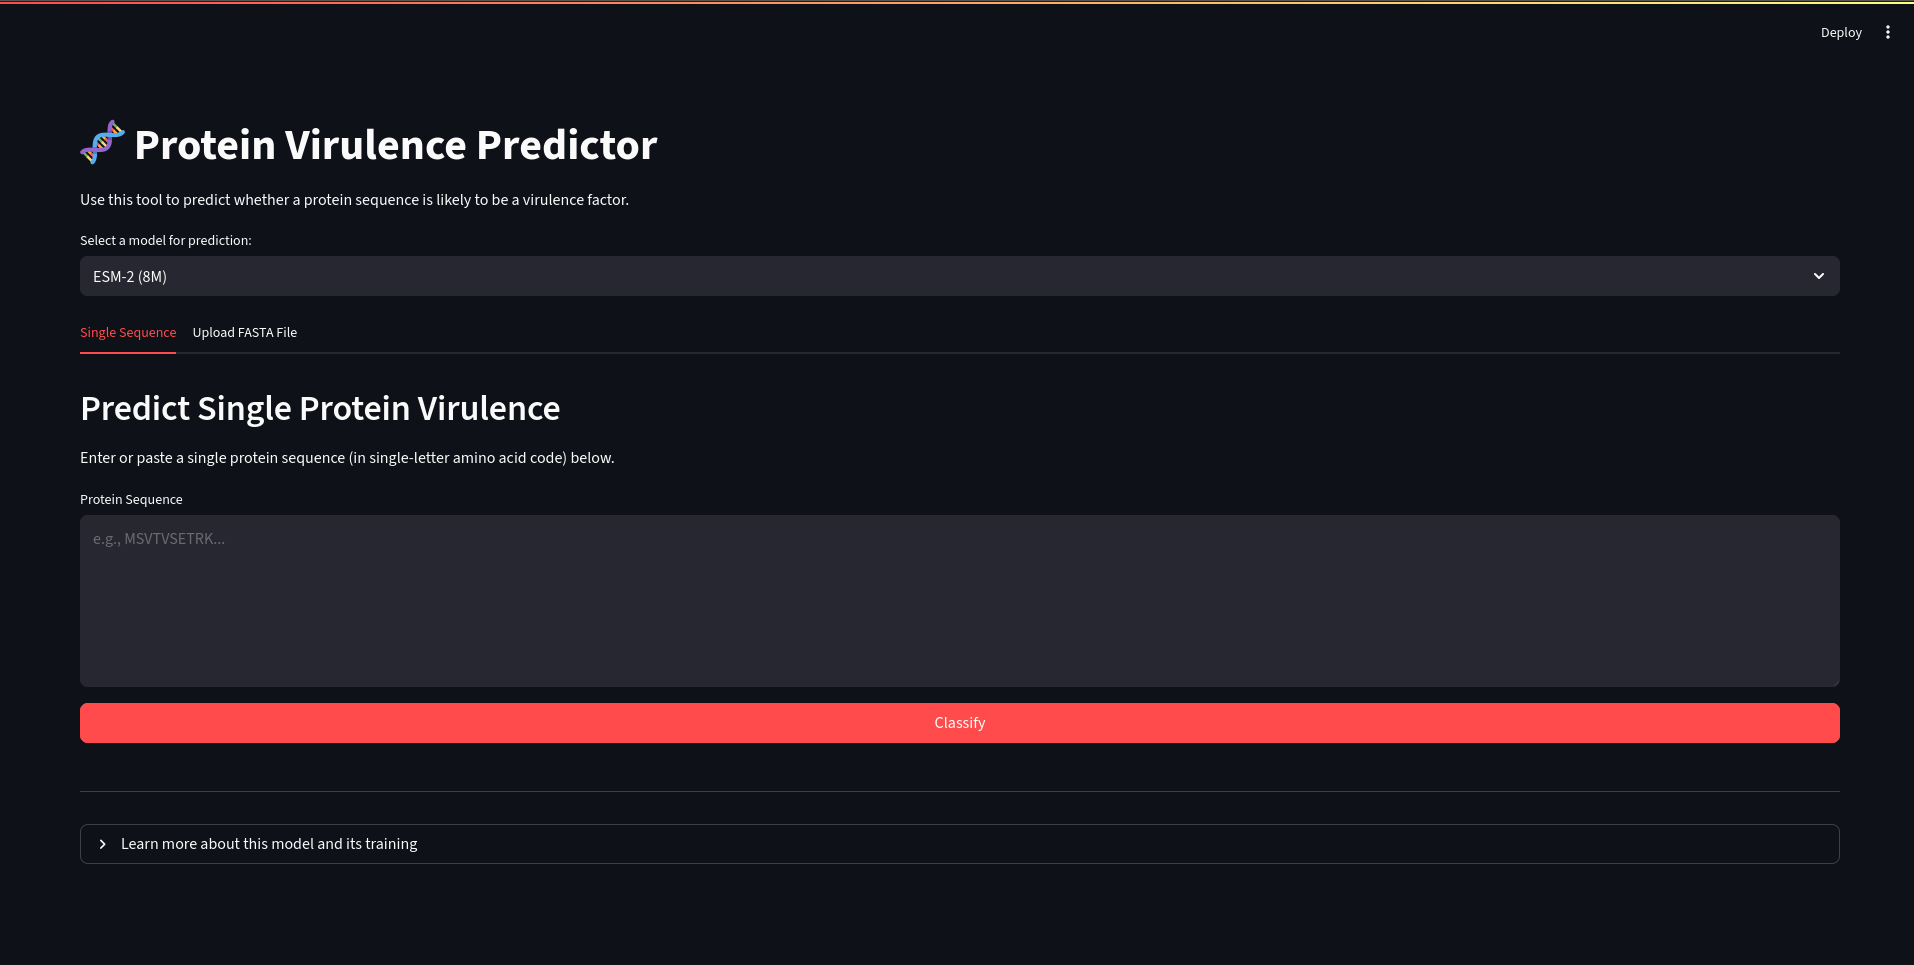
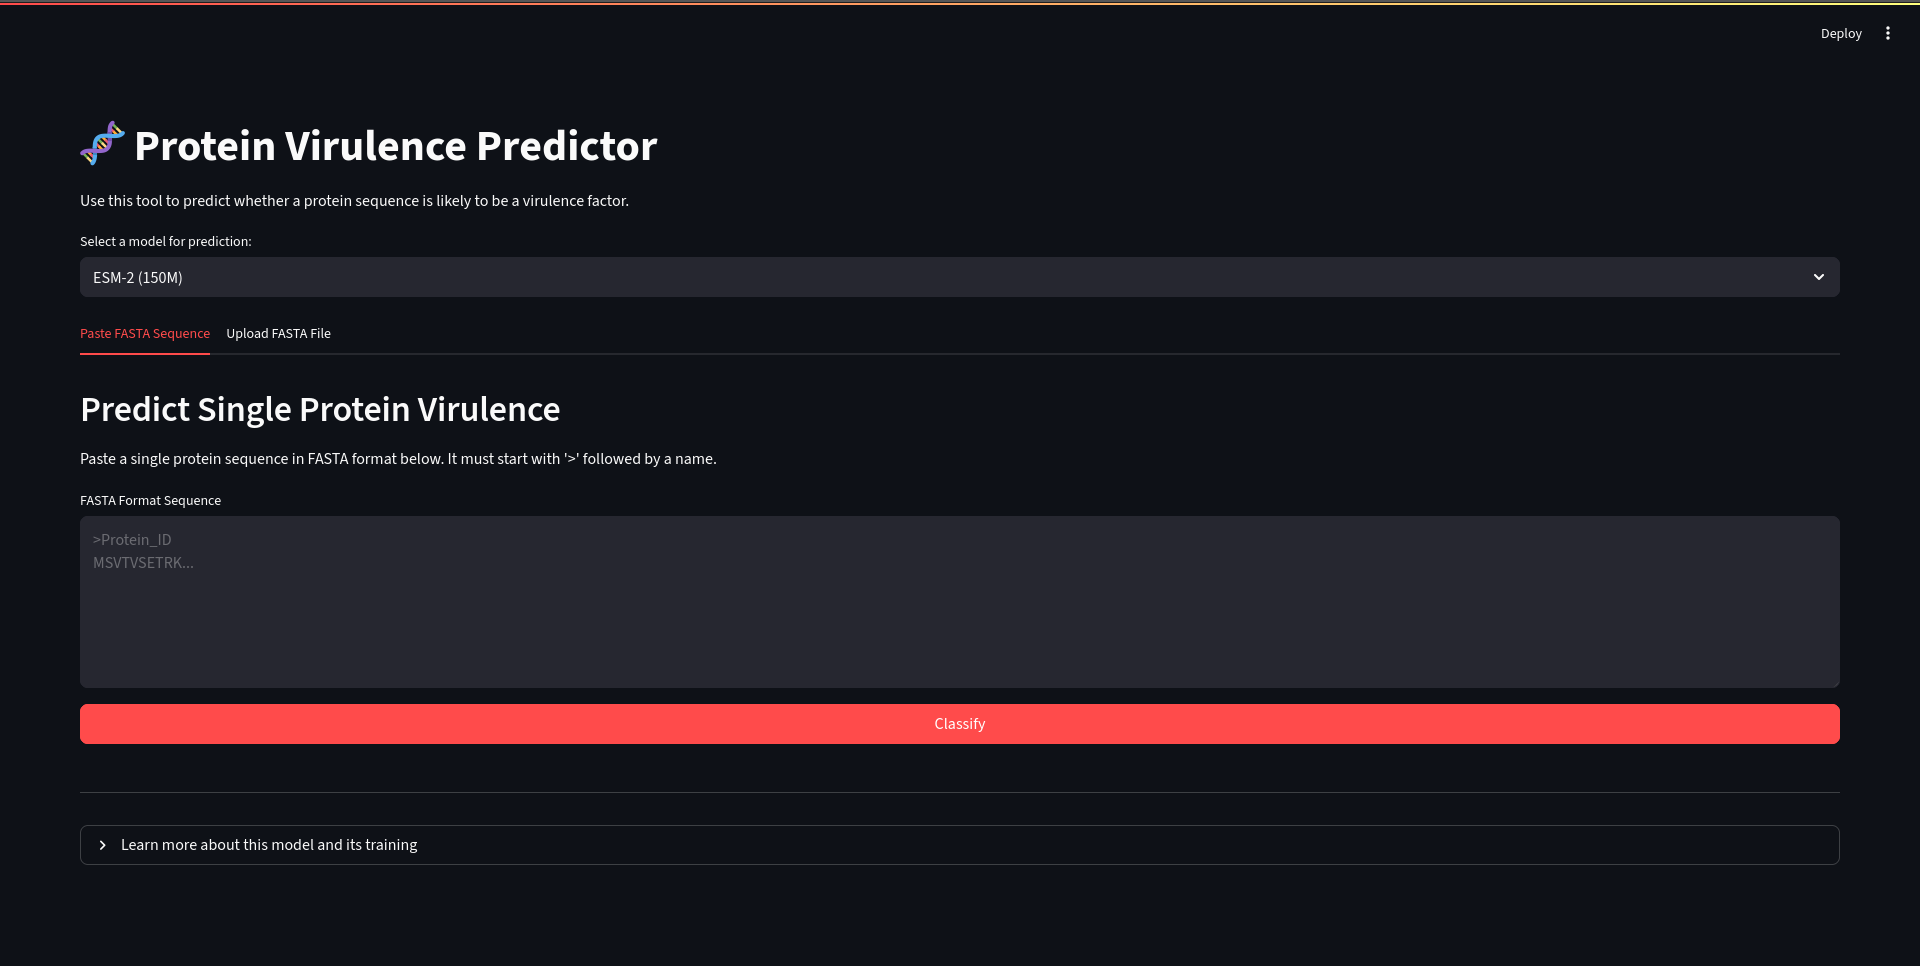
modified app.py for 150m model

diff --git a/app.py b/app.py
@@ -25,9 +25,9 @@ def get_model_and_tokenizer(model_id):
     return tokenizer, model
 
 model_options = {
-    "ESM-2 (8M)": "kssrikar4/AVP-ESM2-8m",
+    "ESM-2 (150M)": "kssrikar4/AVP-ESM2-150m",
     "ESM-2 (35M)": "kssrikar4/AVP-ESM2-35m",
-    "ESM-2 (150M)": "kssrikar4/AVP-ESM2-150m"
+    "ESM-2 (8M)": "kssrikar4/AVP-ESM2-8m"
 }
 selected_model_name = st.selectbox(
     "Select a model for prediction:",
@@ -35,15 +35,15 @@ selected_model_name = st.selectbox(
 )
 selected_model_id = model_options[selected_model_name]
 
-tab1, tab2 = st.tabs(["Single Sequence", "Upload FASTA File"])
+tab1, tab2 = st.tabs(["Paste FASTA Sequence", "Upload FASTA File"])
 
 with tab1:
     st.header("Predict Single Protein Virulence")
-    st.markdown("Enter or paste a single protein sequence (in single-letter amino acid code) below.")
+    st.markdown("Paste a single protein sequence in FASTA format below. It must start with '>' followed by a name.")
     sequence_input = st.text_area(
-        "Protein Sequence",
+        "FASTA Format Sequence",
         height=200,
-        placeholder="e.g., MSVTVSETRK..."
+        placeholder=">Protein_ID\nMSVTVSETRK..."
     )
     predict_button_single = st.button("Classify", use_container_width=True, type="primary", key="single_predict")
 
@@ -67,14 +67,24 @@ if (predict_button_single and sequence_input) or (predict_button_fasta and uploa
 
     sequences_to_predict = []
     if predict_button_single and sequence_input:
-        sequences_to_predict.append({"id": "User_Input_Sequence", "seq": sequence_input.strip()})
+        fasta_io = io.StringIO(sequence_input.strip())
+        try:
+            for record in SeqIO.parse(fasta_io, "fasta"):
+                sequences_to_predict.append({"id": record.id, "seq": str(record.seq)})
+            if not sequences_to_predict:
+                st.error("Invalid FASTA format. Please ensure the sequence starts with '>' followed by a name.")
+        except Exception as e:
+            st.error(f"Error parsing FASTA sequence: {e}")
     elif predict_button_fasta and uploaded_file:
         fasta_string = uploaded_file.getvalue().decode("utf-8")
         fasta_io = io.StringIO(fasta_string)
         for record in SeqIO.parse(fasta_io, "fasta"):
             sequences_to_predict.append({"id": record.id, "seq": str(record.seq)})
+        if not sequences_to_predict:
+            st.error("The uploaded file does not contain any valid FASTA sequences.")
 
     if sequences_to_predict:
+        st.info(f"Found {len(sequences_to_predict)} sequence(s) to classify.")
         with st.spinner("Classifying sequence(s)..."):
             try:
                 seqs = [item['seq'] for item in sequences_to_predict]
@@ -135,16 +145,8 @@ if (predict_button_single and sequence_input) or (predict_button_fasta and uploa
             
             if results_df is not None:
                 st.subheader("Prediction Results")
-                if len(results_df) == 1:
-                    result = results_df.iloc[0]
-                    if result['Prediction'] == "Virulent Protein":
-                        st.markdown(f"**This is likely a:** <span style='color:red; font-size: 20px;'>**{result['Prediction']}**</span>", unsafe_allow_html=True)
-                    else:
-                        st.markdown(f"**This is likely a:** <span style='color:green; font-size: 20px;'>**{result['Prediction']}**</span>", unsafe_allow_html=True)
-                    st.write(f"**Confidence Score:** {result['Confidence']}")
-                else:
-                    st.dataframe(results_df)
-
+                st.dataframe(results_df, use_container_width=True)
+                
 st.markdown("---")
 with st.expander("Learn more about this model and its training", expanded=False):
     st.header("About the Model")
